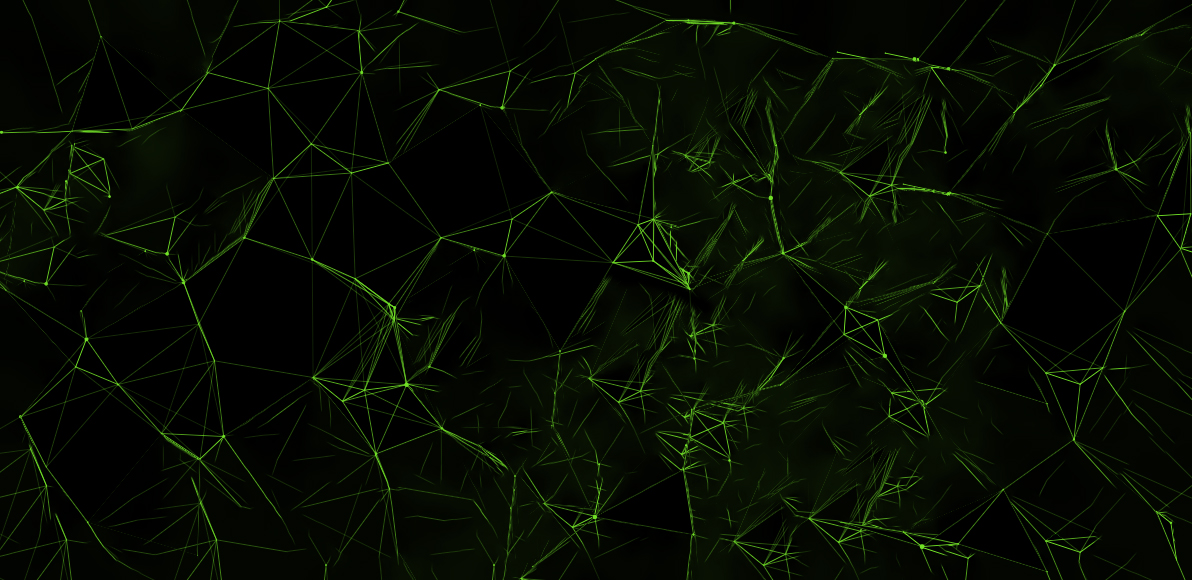
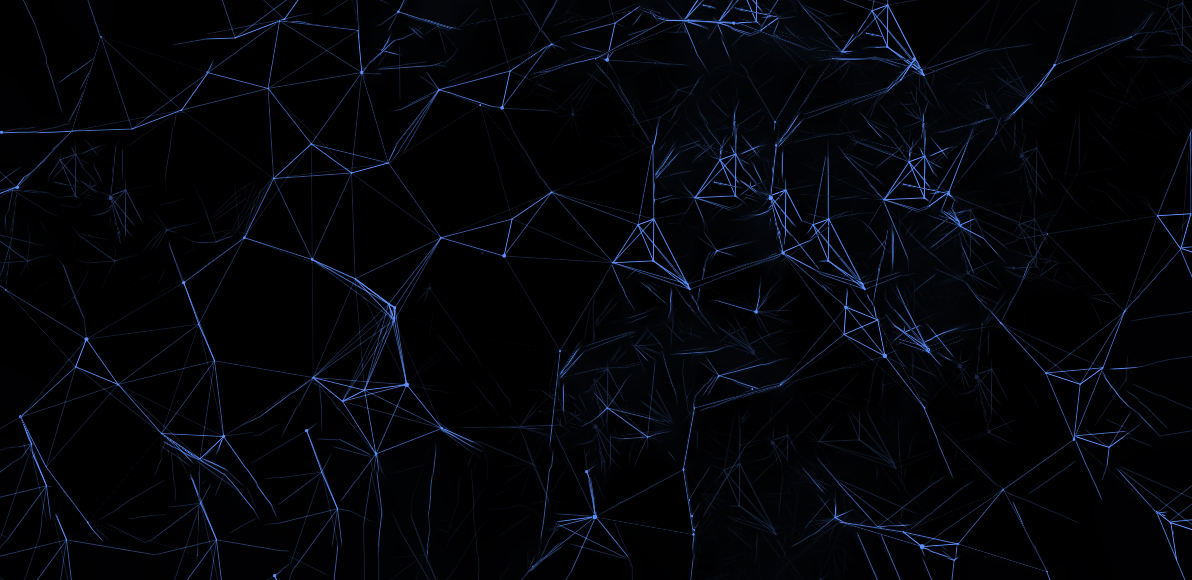
ajustando nova foto de fundo do card

diff --git a/Index.css b/Index.css
@@ -44,7 +44,6 @@ a {
 }
 section{
     height: 100%;
-    padding-top: 7%;
 }
 .container{
     max-width: 1048px;
@@ -63,13 +62,11 @@ section{
 /* SECTION PRESENTATION */
 .presentation_Section{
     background-image: linear-gradient( -45deg, rgb(0, 0, 0) 75%,#48797e);
-}
-.presentation_Container_Padding{
-    padding-top: 20%;
     display: flex;
-    flex-direction: column;
     align-items: center;
 }
+
+
 .welcome_Statement, .about_Me_Description, .experience_Description{
     margin-bottom: 0;
     text-align: justify;
@@ -180,6 +177,10 @@ section{
 }
 .carousel-dark .carousel-indicators [data-bs-target]{
     background-color: #00ffe7;
+}
+.carousel-control-next, .carousel-control-prev{
+    top: 45%;
+    height: 10%;
 }
 .ul li{
     color: white;
